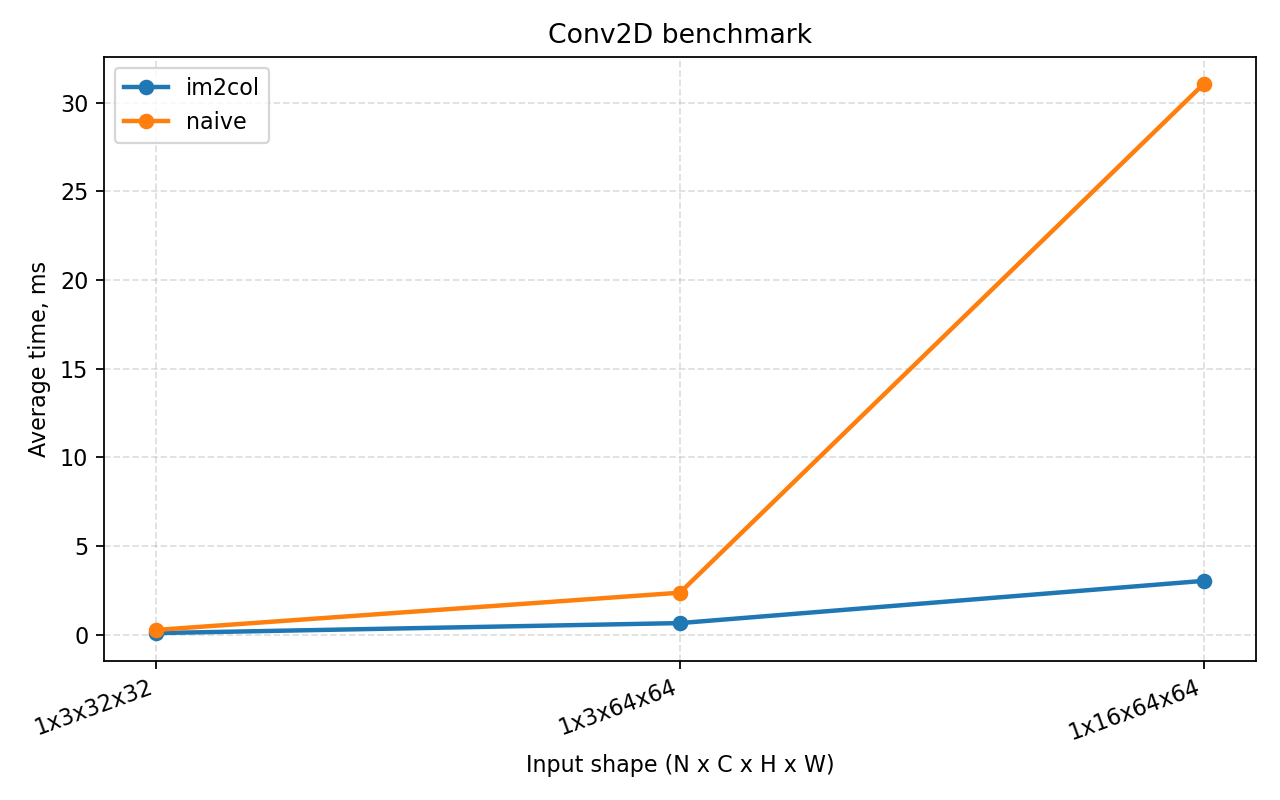
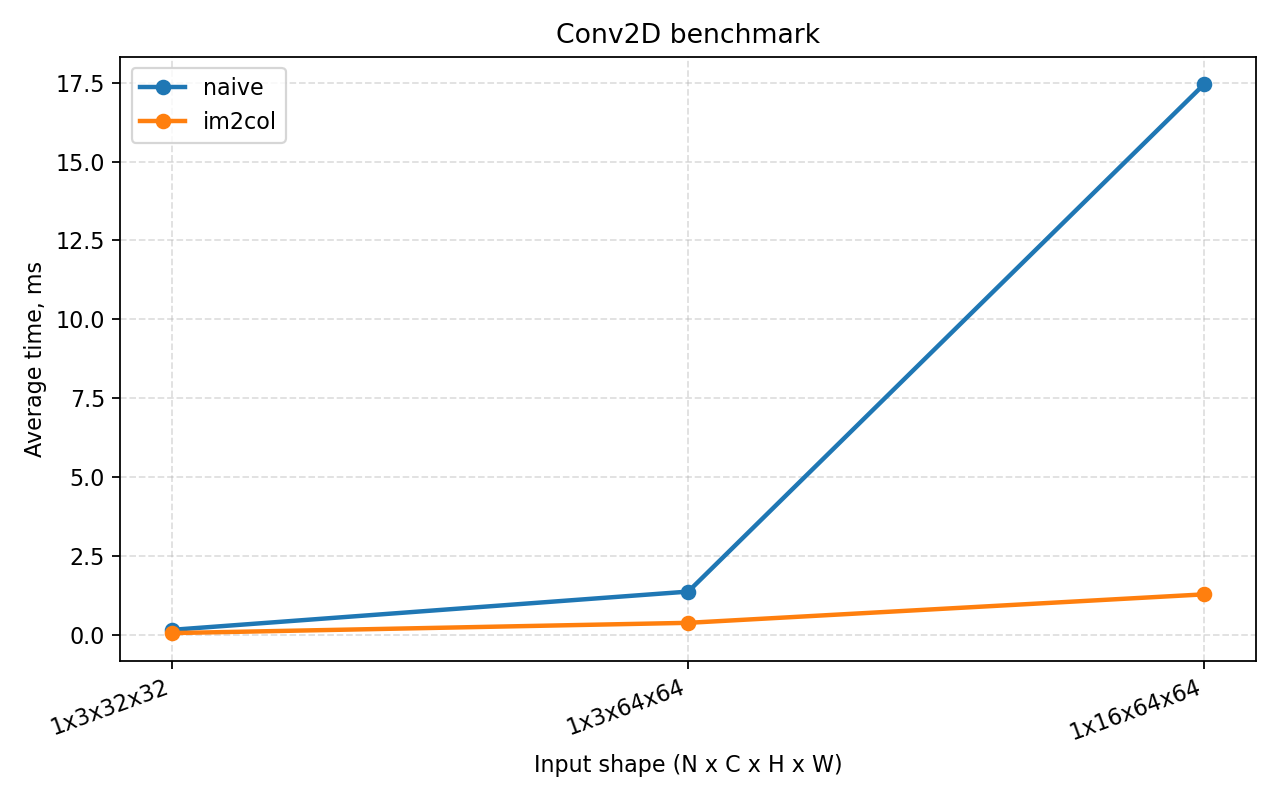
feat: adapt benchmark tooling to google benchmark

diff --git a/lecture_hw_5_KERNELS/scripts/plot_results.py b/lecture_hw_5_KERNELS/scripts/plot_results.py
@@ -1,6 +1,6 @@
 #!/usr/bin/env python3
 
-"""Plot benchmark CSV produced by kernels_bench."""
+"""Plot Google Benchmark CSV produced by kernels_bench."""
 
 from __future__ import annotations
 
@@ -15,25 +15,142 @@ matplotlib.use("Agg")
 import matplotlib.pyplot as plt  # noqa: E402
 
 
-def read_rows(csv_path: Path) -> list[dict[str, str]]:
+def read_csv_rows(csv_path: Path) -> list[dict[str, str]]:
     with csv_path.open(newline="") as csv_file:
-        reader = csv.DictReader(csv_file)
-        required = {
-            "operation",
-            "variant",
-            "M",
-            "K",
-            "N",
-            "input_shape",
-            "kernel_shape",
-            "time_ms",
-        }
-        if reader.fieldnames is None or set(reader.fieldnames) != required:
-            raise ValueError(f"unexpected CSV header in {csv_path}")
-        return list(reader)
+        lines = csv_file.readlines()
+
+    header_index = next(
+        (index for index, line in enumerate(lines) if line.startswith("name,")),
+        None,
+    )
+    if header_index is None:
+        header_index = next(
+            (index for index, line in enumerate(lines) if line.startswith("operation,")),
+            None,
+        )
+    if header_index is None:
+        raise ValueError(f"could not find CSV header in {csv_path}")
+
+    reader = csv.DictReader(lines[header_index:])
+    if reader.fieldnames is None:
+        raise ValueError(f"unexpected CSV header in {csv_path}")
+    return list(reader)
 
 
-def plot_matmul(rows: list[dict[str, str]], output_dir: Path) -> None:
+def time_to_ms(value: str, unit: str) -> float:
+    time = float(value)
+    if unit == "ns":
+        return time / 1_000_000.0
+    if unit == "us":
+        return time / 1_000.0
+    if unit == "ms":
+        return time
+    if unit == "s":
+        return time * 1_000.0
+    raise ValueError(f"unsupported time unit: {unit}")
+
+
+def normalize_google_benchmark_rows(rows: list[dict[str, str]]) -> list[dict[str, str]]:
+    normalized: list[dict[str, str]] = []
+    for row in rows:
+        name = row["name"].strip('"')
+        parts = name.split("/")
+        benchmark_name = parts[0]
+        args = [int(part) for part in parts[1:]]
+        time_ms = time_to_ms(row["real_time"], row["time_unit"])
+
+        if benchmark_name.startswith("bench_matmul_"):
+            if not args:
+                raise ValueError(f"matmul benchmark has no size: {name}")
+            variant = benchmark_name.removeprefix("bench_matmul_")
+            size = str(args[0])
+            normalized.append(
+                {
+                    "operation": "matmul",
+                    "variant": variant,
+                    "M": size,
+                    "K": size,
+                    "N": size,
+                    "input_shape": "",
+                    "kernel_shape": "",
+                    "time_ms": str(time_ms),
+                }
+            )
+            continue
+
+        if benchmark_name.startswith("bench_conv2d_"):
+            if len(args) != 7:
+                raise ValueError(f"conv benchmark must have 7 args: {name}")
+            batch, channels_in, height, width, channels_out, kernel_h, kernel_w = args
+            variant = benchmark_name.removeprefix("bench_conv2d_")
+            normalized.append(
+                {
+                    "operation": "conv",
+                    "variant": variant,
+                    "M": "",
+                    "K": "",
+                    "N": "",
+                    "input_shape": f"{batch}x{channels_in}x{height}x{width}",
+                    "kernel_shape": f"{channels_out}x{channels_in}x{kernel_h}x{kernel_w}",
+                    "time_ms": str(time_ms),
+                }
+            )
+            continue
+
+    return normalized
+
+
+def read_rows(csv_path: Path) -> list[dict[str, str]]:
+    rows = read_csv_rows(csv_path)
+    fieldnames = set(rows[0].keys()) if rows else set()
+    simple_header = {
+        "operation",
+        "variant",
+        "M",
+        "K",
+        "N",
+        "input_shape",
+        "kernel_shape",
+        "time_ms",
+    }
+    google_header = {
+        "name",
+        "iterations",
+        "real_time",
+        "cpu_time",
+        "time_unit",
+        "bytes_per_second",
+        "items_per_second",
+        "label",
+        "error_occurred",
+        "error_message",
+    }
+
+    if fieldnames == simple_header:
+        return rows
+    if fieldnames == google_header:
+        return normalize_google_benchmark_rows(rows)
+    raise ValueError(f"unexpected CSV header in {csv_path}")
+
+
+def display_variant(variant: str) -> str:
+    if variant == "im2col":
+        return variant
+    return variant.replace("_", " ")
+
+
+def variant_order(variant: str) -> tuple[int, str]:
+    order = {
+        "naive": 0,
+        "cache_friendly": 1,
+        "tiled": 2,
+        "vectorized": 3,
+        "im2col": 1,
+    }
+    return order.get(variant, 99), variant
+
+
+def plot_matmul(rows: list[dict[str, str]], output_dir: Path) -> Path | None:
     series: dict[str, list[tuple[int, float]]] = defaultdict(list)
     for row in rows:
         if row["operation"] != "matmul":
@@ -41,14 +158,14 @@ def plot_matmul(rows: list[dict[str, str]], output_dir: Path) -> None:
         series[row["variant"]].append((int(row["M"]), float(row["time_ms"])))
 
     if not series:
-        raise ValueError("CSV does not contain matmul benchmark rows")
+        return None
 
     fig, ax = plt.subplots(figsize=(8, 5))
-    for variant in sorted(series):
+    for variant in sorted(series, key=variant_order):
         points = sorted(series[variant])
         sizes = [size for size, _ in points]
         times = [time_ms for _, time_ms in points]
-        ax.plot(sizes, times, marker="o", linewidth=2, label=variant)
+        ax.plot(sizes, times, marker="o", linewidth=2, label=display_variant(variant))
 
     ax.set_title("MatMul benchmark")
     ax.set_xlabel("Matrix size (M = K = N)")
@@ -57,11 +174,13 @@ def plot_matmul(rows: list[dict[str, str]], output_dir: Path) -> None:
     ax.grid(True, linestyle="--", alpha=0.4)
     ax.legend()
     fig.tight_layout()
-    fig.savefig(output_dir / "matmul_benchmark.png", dpi=160)
+    output_path = output_dir / "matmul_benchmark.png"
+    fig.savefig(output_path, dpi=160)
     plt.close(fig)
+    return output_path
 
 
-def plot_conv(rows: list[dict[str, str]], output_dir: Path) -> None:
+def plot_conv(rows: list[dict[str, str]], output_dir: Path) -> Path | None:
     series: dict[str, list[tuple[str, float]]] = defaultdict(list)
     shape_order: list[str] = []
     for row in rows:
@@ -73,14 +192,14 @@ def plot_conv(rows: list[dict[str, str]], output_dir: Path) -> None:
         series[row["variant"]].append((shape, float(row["time_ms"])))
 
     if not series:
-        raise ValueError("CSV does not contain convolution benchmark rows")
+        return None
 
     x_positions = list(range(len(shape_order)))
     fig, ax = plt.subplots(figsize=(8, 5))
-    for variant in sorted(series):
+    for variant in sorted(series, key=variant_order):
         by_shape = dict(series[variant])
         times = [by_shape[shape] for shape in shape_order]
-        ax.plot(x_positions, times, marker="o", linewidth=2, label=variant)
+        ax.plot(x_positions, times, marker="o", linewidth=2, label=display_variant(variant))
 
     ax.set_title("Conv2D benchmark")
     ax.set_xlabel("Input shape (N x C x H x W)")
@@ -90,8 +209,10 @@ def plot_conv(rows: list[dict[str, str]], output_dir: Path) -> None:
     ax.grid(True, linestyle="--", alpha=0.4)
     ax.legend()
     fig.tight_layout()
-    fig.savefig(output_dir / "conv_benchmark.png", dpi=160)
+    output_path = output_dir / "conv_benchmark.png"
+    fig.savefig(output_path, dpi=160)
     plt.close(fig)
+    return output_path
 
 
 def main(argv: list[str]) -> int:
@@ -104,11 +225,17 @@ def main(argv: list[str]) -> int:
     output_dir.mkdir(parents=True, exist_ok=True)
 
     rows = read_rows(csv_path)
-    plot_matmul(rows, output_dir)
-    plot_conv(rows, output_dir)
+    output_paths = [
+        path
+        for path in (plot_matmul(rows, output_dir), plot_conv(rows, output_dir))
+        if path is not None
+    ]
 
-    print(output_dir / "matmul_benchmark.png")
-    print(output_dir / "conv_benchmark.png")
+    if not output_paths:
+        raise ValueError("CSV does not contain supported benchmark rows")
+
+    for output_path in output_paths:
+        print(output_path)
     return 0
 
 

diff --git a/lecture_hw_5_KERNELS/README.md b/lecture_hw_5_KERNELS/README.md
@@ -1,0 +1,75 @@
+# KERNELS
+
+Мини-проект с kernel-level реализациями MatMul и Conv2D для курса по тензорным компиляторам.
+
+## Реализовано
+
+- `matmul_naive`
+- `matmul_cache_friendly` через транспонирование `B`
+- `matmul_tiled`
+- `matmul_vectorized` с AVX2 при `-DKERNELS_ENABLE_AVX2=ON`, иначе fallback
+- `conv2d_naive` для NCHW valid convolution
+- `im2col`
+- `conv2d_im2col` через Im2Col + MatMul
+- correctness tests
+- Google Benchmark
+- CSV results и PNG-графики
+
+## Сборка
+
+```bash
+cmake -S . -B build -DCMAKE_BUILD_TYPE=Release
+cmake --build build
+```
+
+AVX2:
+
+```bash
+cmake -S . -B build -DCMAKE_BUILD_TYPE=Release -DKERNELS_ENABLE_AVX2=ON
+cmake --build build
+```
+
+Требуется установленный Google Benchmark.
+
+## Тесты
+
+```bash
+ctest --test-dir build --output-on-failure
+```
+
+## Benchmark
+
+Обычный запуск:
+
+```bash
+./build/kernels_bench
+```
+
+CSV для Google Benchmark:
+
+```bash
+./build/kernels_bench \
+  --benchmark_out=results/benchmark_results.csv \
+  --benchmark_out_format=csv
+```
+
+## Графики
+
+В репозитории уже сохранены графики:
+
+- `results/matmul_benchmark.png`
+- `results/conv_benchmark.png`
+
+Построить графики из Google Benchmark CSV:
+
+```bash
+python3 scripts/plot_results.py results/benchmark_results.csv results
+```
+
+## Ограничения
+
+- Только `float32`.
+- Матрицы: contiguous row-major.
+- Тензоры: NCHW.
+- Conv2D только valid convolution: stride и padding не реализованы.
+- AVX2 включается явно через CMake option.
